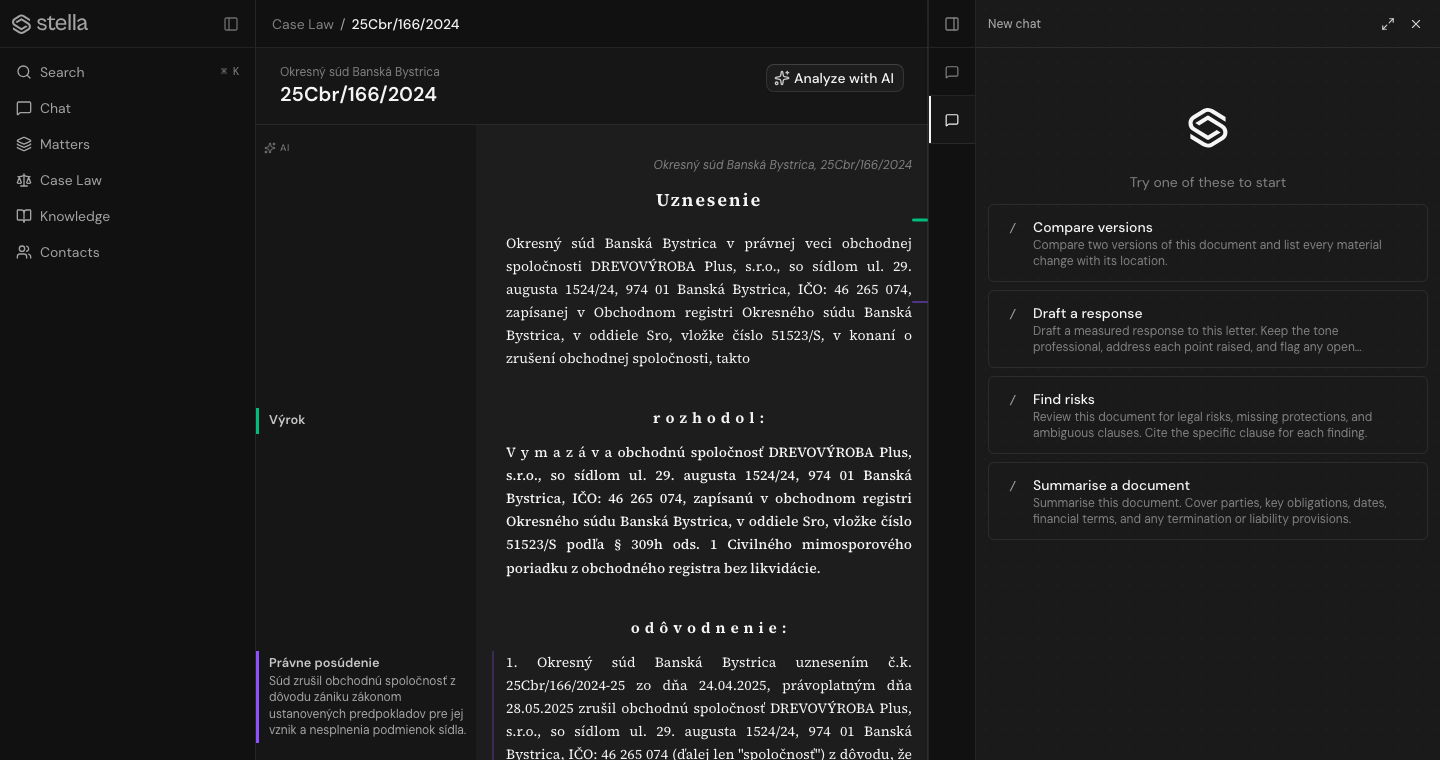
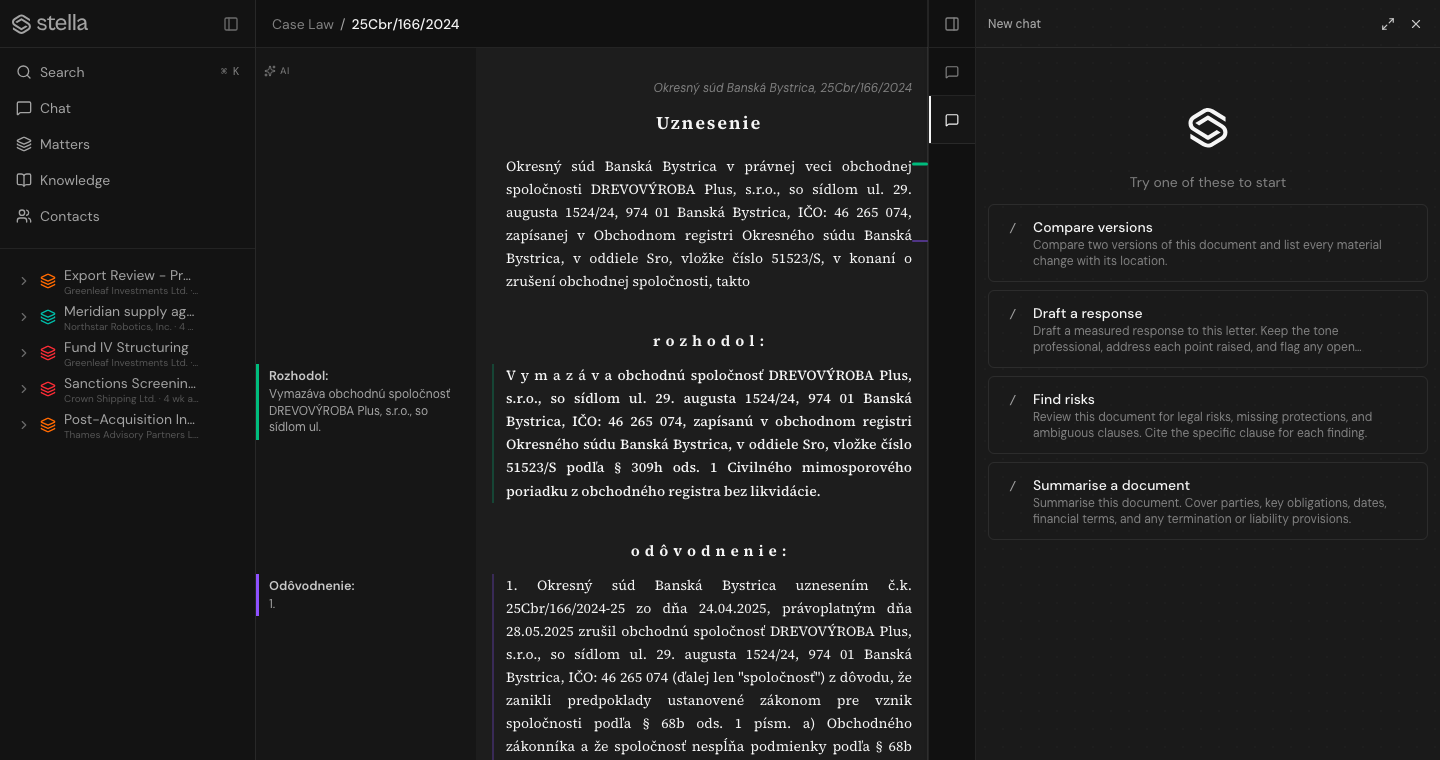
fix: wait for prompts in marketing captures

diff --git a/apps/web/e2e/marketing/product-screenshots.spec.ts b/apps/web/e2e/marketing/product-screenshots.spec.ts
@@ -219,6 +219,23 @@ test("capture landing product screenshots", async ({
         await expect(
           page.getByRole("group", { name: "Outline" }),
         ).toBeVisible();
+        // The inspector chat loads its saved-skill prompts independently of
+        // the decision and analysis queries. The empty state paints the logo
+        // first, so waiting only for the reader can record a blank inspector.
+        // Scope readiness to the visible inspector: other route shells may
+        // remain mounted and must not satisfy the capture gate.
+        const inspectorChat = page.locator(
+          '[data-slot="inspector-chat-panel"]:visible',
+        );
+        // eslint-disable-next-line no-await-in-loop -- see above
+        await expect(inspectorChat).toHaveCount(1, {
+          timeout: COLD_COMPILE_TIMEOUT,
+        });
+        // This component only exists when at least one prompt card rendered.
+        // eslint-disable-next-line no-await-in-loop -- see above
+        await expect(
+          inspectorChat.locator('[data-slot="prompt-suggestions"]'),
+        ).toBeVisible({ timeout: COLD_COMPILE_TIMEOUT });
         // The first margin annotation may sit below a long headnote (e.g. a
         // Constitutional Court "legal sentence" summary); scroll it into view
         // so the capture shows the structure margin, not just headnote text.
@@ -396,4 +413,16 @@ const authenticateMarketingSession = async (request: APIRequestContext) => {
     },
   );
   expect(setActiveResponse.ok(), await setActiveResponse.text()).toBe(true);
+
+  // The docked chat empty state only offers suggestions from installed
+  // slash-command skills. Seed the same defaults a new user gets from the
+  // Skills surface so fresh nightly databases record the intended prompt
+  // cards instead of a permanently empty logo state.
+  const seedSkillsResponse = await request.post(
+    `${apiBaseURL}/v1/skills/seed`,
+    {
+      headers: { origin: webOrigin },
+    },
+  );
+  expect(seedSkillsResponse.ok(), await seedSkillsResponse.text()).toBe(true);
 };

diff --git a/apps/web/src/components/chat/prompt-suggestions.tsx b/apps/web/src/components/chat/prompt-suggestions.tsx
@@ -29,7 +29,10 @@ export const PromptSuggestions = ({
   }
 
   return (
-    <div className={cn("flex w-full flex-col items-center gap-3", className)}>
+    <div
+      className={cn("flex w-full flex-col items-center gap-3", className)}
+      data-slot="prompt-suggestions"
+    >
       <p className="text-muted-foreground text-sm">
         {t("chat.prompts.tryOne")}
       </p>

diff --git a/apps/web/src/components/inspector/chat-tab-panel.tsx b/apps/web/src/components/inspector/chat-tab-panel.tsx
@@ -842,7 +842,10 @@ const ChatTabPanelChrome = ({
   );
 
   return (
-    <div className="bg-muted/40 relative flex min-w-0 flex-1 flex-col">
+    <div
+      className="bg-muted/40 relative flex min-w-0 flex-1 flex-col"
+      data-slot="inspector-chat-panel"
+    >
       <InspectorTabHeader
         actions={actions}
         label={
